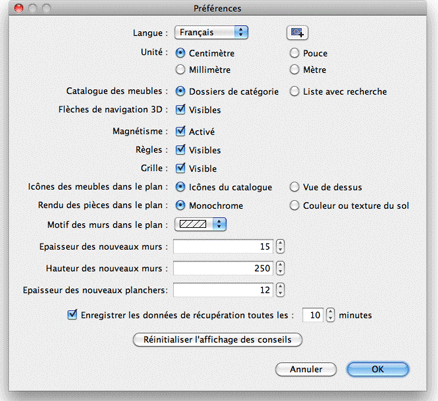
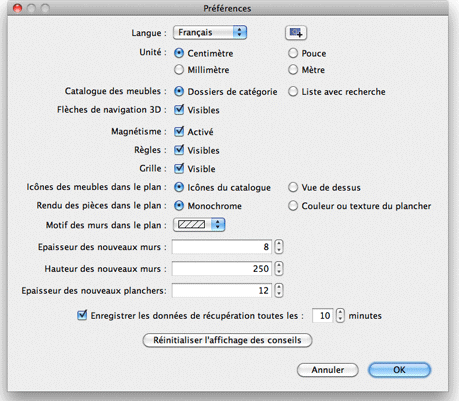
Renamed "sol" as "plancher"
git-svn-id: https://svn.code.sf.net/p/sweethome3d/code/trunk@3250 03e323e1-6c6c-46a5-9f71-c4ce5d8c6204

diff --git a/SweetHome3D/src/com/eteks/sweethome3d/viewcontroller/resources/help/fr/editingRooms.html b/SweetHome3D/src/com/eteks/sweethome3d/viewcontroller/resources/help/fr/editingRooms.html
@@ -83,13 +83,13 @@
       <p>Le nom et les attributs 3D d'une pi&egrave;ce peuvent &ecirc;tre modifi&eacute;s gr&acirc;ce &agrave; son panneau,
         en double-cliquant sur cette pi&egrave;ce dans le plan du logement, ou en choisissant <i>Plan &gt; Modifier les pi&egrave;ces...</i> apr&egrave;s
         l'avoir s&eacute;lectionn&eacute;.</p>
-        <p align="center"><img src="images/editingRooms.png" width="339" height="249"></p>
+        <p align="center"><img src="images/editingRooms.png" width="337" height="247"></p>
         <p>Dans le panneau de la pi&egrave;ce, vous pouvez modifier le nom de la pi&egrave;ce s&eacute;lectionn&eacute;e et si sa superficie doit &ecirc;tre
           affich&eacute;e dans le plan ou non.<br>
-          Vous pouvez aussi choisir si le sol et le plafond de la pi&egrave;ce 
+          Vous pouvez aussi choisir si le plancher et le plafond de la pi&egrave;ce 
           s&eacute;lectionn&eacute;e doivent &ecirc;tre affich&eacute;s dans la 
           vue 3D, et si oui, avec quelle couleur, quelle texture et &agrave; quelle 
-          brillance.</p>
+        brillance.</p>
       </td>
   </tr>
 </table>
@@ -122,8 +122,8 @@
               <p>&#149;</p>
             </td>
             <td>
-              <p>Si vous voulez appliquer des couleurs ou des textures diff&eacute;rentes d'une partie &agrave; l'autre du sol d'une m&ecirc;me
-                pi&egrave;ce (par exemple pour utiliser des carreaux pour le sol d'un coin cuisine),   <a href="drawingRooms.html">cr&eacute;er</a> une
+              <p>Si vous voulez appliquer des couleurs ou des textures diff&eacute;rentes d'une partie &agrave; l'autre du plancher d'une m&ecirc;me
+                pi&egrave;ce (par exemple pour utiliser des carreaux pour le plancher d'un coin cuisine),   <a href="drawingRooms.html">cr&eacute;er</a> une
                 pi&egrave;ce pour chacune de ces parties et changer leur couleur ou leur texture.</td>
           </tr>
           <tr valign="top">
@@ -131,7 +131,7 @@
               <p>&#149;</p>
             </td>
             <td>
-              <p>L'&eacute;l&eacute;vation du sol d'une pi&egrave;ce est toujours &eacute;gale &agrave; l'&eacute;l&eacute;vation du <a href="addingLevels.html">niveau</a> auquel la pi&egrave;ce appartient (ou nulle si aucun niveau n'a &eacute;t&eacute; ajout&eacute; au logement). Si la pi&egrave;ce n'est pas au <b>dernier niveau</b>, la hauteur de son plafond sera &eacute;gale &agrave; l'&eacute;l&eacute;vation plus la hauteur du niveau auquel elle appartient. Sinon, la hauteur du plafond d'une pi&egrave;ce est calcul&eacute;e &agrave; chaque
+              <p>L'&eacute;l&eacute;vation du plancher d'une pi&egrave;ce est toujours &eacute;gale &agrave; l'&eacute;l&eacute;vation du <a href="addingLevels.html">niveau</a> auquel la pi&egrave;ce appartient (ou nulle si aucun niveau n'a &eacute;t&eacute; ajout&eacute; au logement). Si la pi&egrave;ce n'est pas au <b>dernier niveau</b>, la hauteur de son plafond sera &eacute;gale &agrave; l'&eacute;l&eacute;vation plus la hauteur du niveau auquel elle appartient. Sinon, la hauteur du plafond d'une pi&egrave;ce est calcul&eacute;e &agrave; chaque
                 point d'une pi&egrave;ce, et la hauteur de chacun de ces points est &eacute;gale &agrave; la hauteur du point de d&eacute;part ou d'arriv&eacute;e
                 le plus proche d'un mur. Ceci permet de cr&eacute;er le plafond d'un sous-pente si vous avez affect&eacute; des hauteurs
                 diff&eacute;rentes au point de d&eacute;part et d'arriv&eacute;e des <a href="editingWalls.html">murs inclin&eacute;s</a> d'une

diff --git a/SweetHome3D/src/com/eteks/sweethome3d/viewcontroller/resources/help/fr/editingPreferences.html b/SweetHome3D/src/com/eteks/sweethome3d/viewcontroller/resources/help/fr/editingPreferences.html
@@ -28,7 +28,7 @@
 	<tr>
 	<td><p>Pour &eacute;diter les pr&eacute;f&eacute;rences de Sweet Home 3D, choisissez <i>Sweet Home 3D &gt; Pr&eacute;f&eacute;rences...</i> sous
 	    Mac OS X ou <i>Fichier &gt; Pr&eacute;f&eacute;rences...</i> sous les autres syst&egrave;mes d'exploitation.</p>
-	    <p align="center"><img src="images/editingPreferences.png" width="438" height="401"></p>
+	    <p align="center"><img src="images/editingPreferences.png" width="459" height="401"></p>
 	  <p>Dans le panneau des pr&eacute;f&eacute;rences, vous pouvez choisir la <i>Langue</i> utilis&eacute;e dans l'interface utilisateur
 	    de Sweet Home 3D et l'<i>Unit&eacute;</i> utilis&eacute;e
 	    pour dessiner les r&egrave;gles et la grille du plan du
@@ -52,9 +52,9 @@
           permettent de choisir comment seront dessin&eacute;s les meubles dans 
           le plan (voir les images ci-dessous).<br>
           Les boutons radio <i></i><i>Monochrome</i> et <i>Couleur ou texture 
-          du sol</i> permettent de choisir si les pi&egrave;ces doivent &ecirc;tre 
+          du plancher</i> permettent de choisir si les pi&egrave;ces doivent &ecirc;tre 
           remplies dans le plan avec la couleur ou de la texture que vous avez 
-          choisies pour leur sol, ou en gris (en blanc &agrave; l'impression).<br>
+          choisies pour leur plancher, ou en gris (en blanc &agrave; l'impression).<br>
           La liste d&eacute;roulante <i>Motif des murs dans le plan</i> permet 
           de choisir le motif de remplissage des murs dans le plan.</p>
 	  <p>La valeur de l'<i>Epaisseur des nouveaux murs</i> d&eacute;termine l'&eacute;paisseur des murs qui seront cr&eacute;&eacute;s
@@ -83,9 +83,9 @@
         </tr>
         <tr>
           <td align="center" valign="top">Rendu du plan par d&eacute;faut avec les ic&ocirc;nes du catalogue,<br>
-      les sols monochromes et les murs hachur&eacute;s</td>
+      les planchers monochromes et les murs hachur&eacute;s</td>
           <td align="center" valign="top">Rendu du plan avec les meubles vus de dessus,<br>
-      les sols color&eacute;s, et les murs en noir</td>
+      les planchers color&eacute;s, et les murs en noir</td>
         </tr>
       </table></td>
 	</tr>

diff --git a/SweetHome3D/src/com/eteks/sweethome3d/viewcontroller/resources/help/fr/creatingPhotos.html b/SweetHome3D/src/com/eteks/sweethome3d/viewcontroller/resources/help/fr/creatingPhotos.html
@@ -79,7 +79,7 @@
               <td><img src="../images/photoQuality1.jpg" alt="Quality 1" width="240" height="160" border="1" align="absmiddle"  ></td>
               <td><p>2. Le second niveau de qualit&eacute; est le m&ecirc;me que 
                   le niveau le moins &eacute;lev&eacute; avec des ombres affich&eacute;s 
-                  sous les meubles pos&eacute;s sur le sol, ce qui donne un effet 
+                  sous les meubles pos&eacute;s sur le plancher, ce qui donne un effet 
                   plus photor&eacute;aliste.</p></td>
               <td><img src="../images/photoQuality3.jpg" alt="Quality 3" width="240" height="160" border="1" align="absmiddle" ></td>
               <td>4. Le meilleur niveau de qualit&eacute; est proche du pr&eacute;c&eacute;dent 

diff --git a/SweetHome3D/src/com/eteks/sweethome3d/viewcontroller/resources/help/fr/drawingRooms.html b/SweetHome3D/src/com/eteks/sweethome3d/viewcontroller/resources/help/fr/drawingRooms.html
@@ -42,7 +42,7 @@
 	  </ul>
 	  <p>Quand vous dessinez une pi&egrave;ce point par point avec le magn&eacute;tisme activ&eacute;, un guide sous forme d'un point color&eacute; appara&icirc;tra
 	    pour vous aider &agrave; cliquer &agrave; l'intersection des murs. Une pi&egrave;ce cr&eacute;&eacute;e avec un double-clic couvre la superficie du
-	    sol comprise entre les murs qui entourent le point o&ugrave; vous avez cliqu&eacute;, et comprend aussi la surface d'un demi pas
+	    plancher comprise entre les murs qui entourent le point o&ugrave; vous avez cliqu&eacute;, et comprend aussi la surface d'un demi pas
 	    de porte de chacune des portes plac&eacute;s sur ces murs. Cette fonctionnalit&eacute; permet de cr&eacute;er facilement des pi&egrave;ces qui
 	    se joignent correctement dans la vue 3D quand les portes entre les murs sont ouvertes.<br>
 	      Ainsi, &agrave; moins que vous vouliez cr&eacute;er une surface sp&eacute;ciale qui ne touche pas les bords des

diff --git a/SweetHome3D/src/com/eteks/sweethome3d/viewcontroller/resources/help/fr/editing3DView.html b/SweetHome3D/src/com/eteks/sweethome3d/viewcontroller/resources/help/fr/editing3DView.html
@@ -141,7 +141,7 @@
         <p align="center"><img src="images/editing3DView.png" width="399" height="214"></p>
         <p>Dans le panneau de la vue 3D, vous pouvez modifier le champ de vue du visiteur virtuel, sa hauteur,
           la couleur ou la texture du sol et du ciel, l'intensit&eacute; de la lumi&egrave;re
-          et la transparence des murs (et des sols/plafonds des pi&egrave;ces).<br>
+          et la transparence des murs (et des planchers/plafonds des pi&egrave;ces).<br>
         L'&eacute;l&eacute;vation du point du vue du visiteur virtuel est &eacute;gale aux 13/14 de sa hauteur selon les proportions d'un adulte
         humain.</p>
       </td>